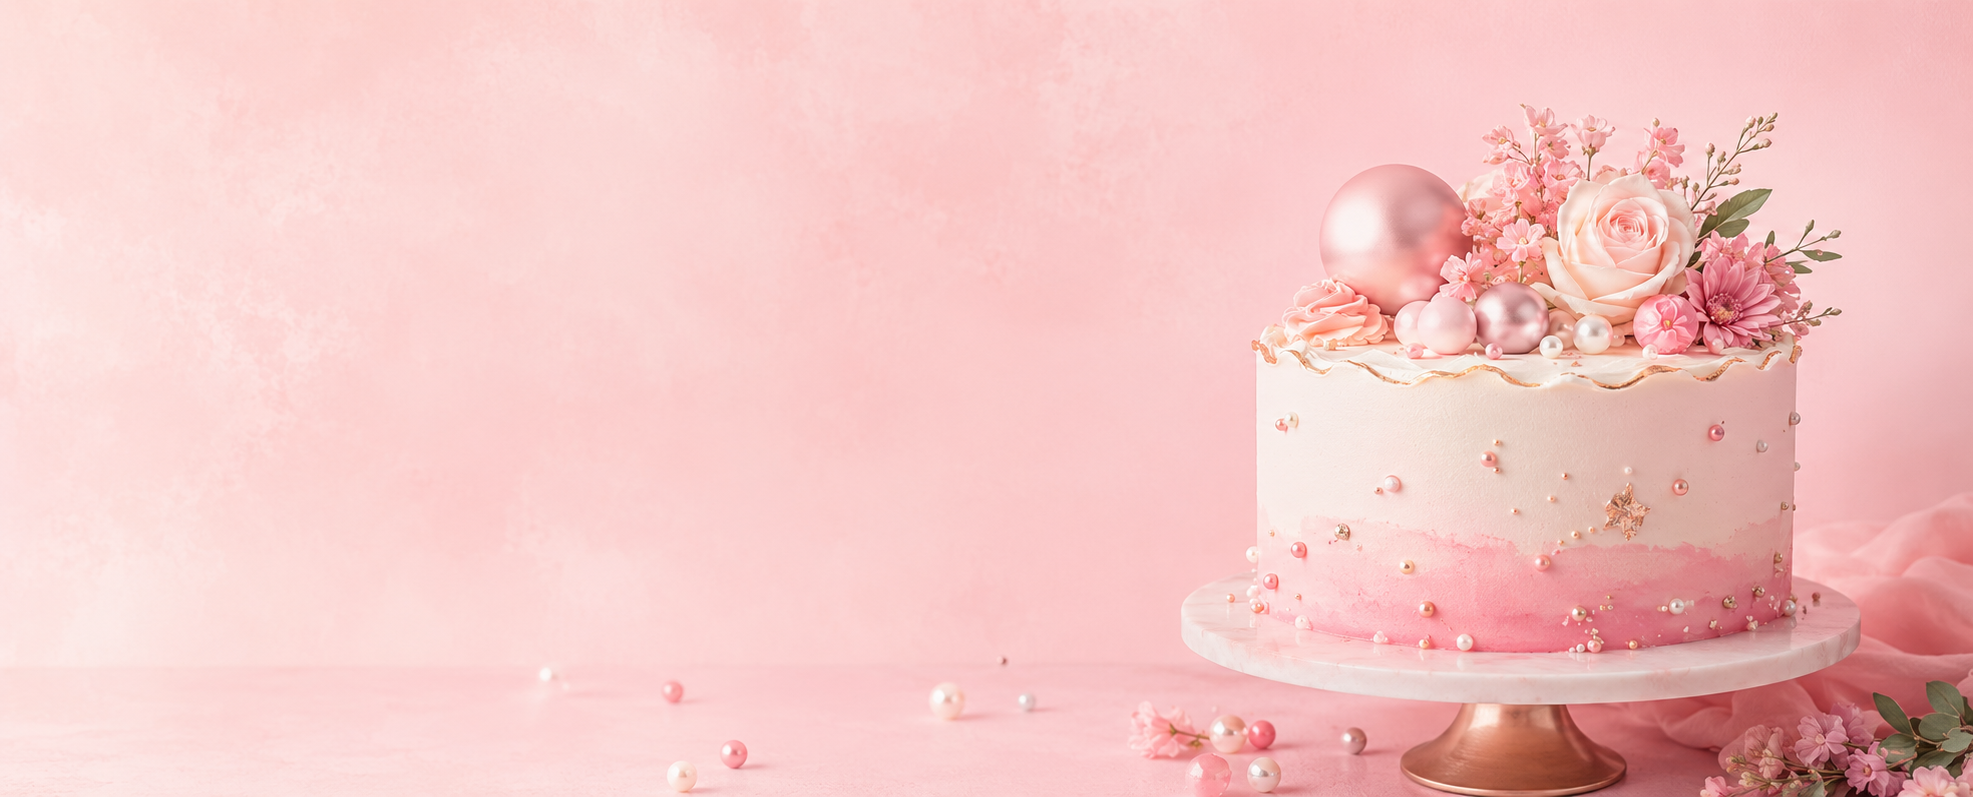
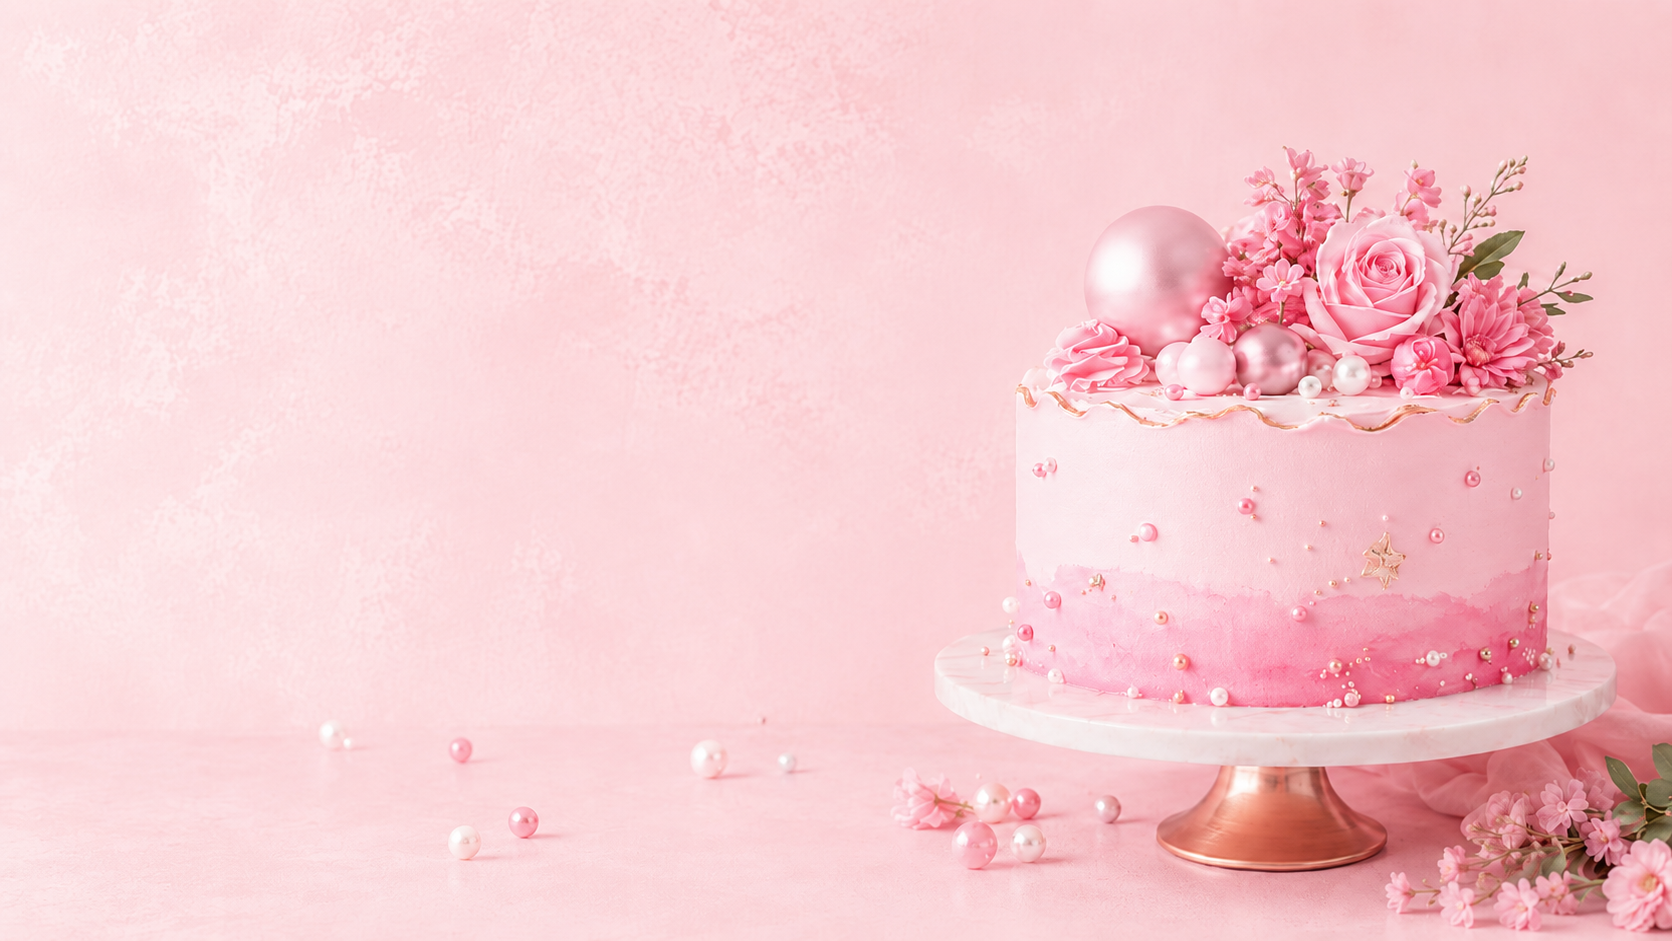
style: refresh process and custom cake sections

diff --git a/frontend/src/components/sections/OrderProcess.tsx b/frontend/src/components/sections/OrderProcess.tsx
@@ -1,82 +1,73 @@
-import Image from "next/image";
-import { SectionAnimatedHeader } from "@/components/animation/SectionAnimatedHeader";
 import { Reveal } from "@/components/animation/Reveal";
+import { SafeImage } from "@/components/ui/SafeImage";
 import { capStaggerDelay } from "@/lib/animation/constants";
-import { orderProcessCopy, orderProcessSteps } from "@/lib/orderProcess";
+import { cn } from "@/lib/cn";
+import { siteImages } from "@/lib/images";
+import { whyChooseBenefits, whyChooseCopy } from "@/lib/orderProcess";
 
 export function OrderProcess() {
   return (
     <section
       id="order"
-      className="section-anchor section-padding bg-[#FFF8FA]"
+      className="section-anchor relative min-h-[28rem] overflow-hidden bg-[#FBE4E8] sm:min-h-[32rem] lg:min-h-[36rem] xl:min-h-[40rem]"
       aria-labelledby="order-heading"
     >
-      <div className="section-container">
-        <SectionAnimatedHeader
-          eyebrow={orderProcessCopy.subtitle}
-          title={orderProcessCopy.heading}
-          titleAs="h2"
-          titleId="order-heading"
-          align="center"
-          className="max-w-xl"
+      <div className="absolute inset-0" aria-hidden>
+        <SafeImage
+          src={siteImages.process}
+          fallbackSrc={siteImages.process}
+          alt=""
+          fill
+          sizes="100vw"
+          className="object-cover object-[78%_center] opacity-100 sm:object-[72%_center] lg:object-right"
         />
+      </div>
 
-        <div className="relative mt-8 sm:mt-10">
-          <span
-            className="absolute left-[12.5%] right-[12.5%] top-8 hidden h-px bg-brand-primary/30 lg:block"
-            aria-hidden
-          />
+      <div
+        className={cn(
+          "section-container relative z-10 flex min-h-[28rem] items-center",
+          "py-10 sm:min-h-[32rem] sm:py-12",
+          "lg:min-h-[36rem] lg:py-14 xl:min-h-[40rem] xl:py-16",
+        )}
+      >
+        <div className="relative min-w-0 max-w-[17rem] sm:max-w-sm md:max-w-md lg:max-w-[28rem] xl:max-w-[30rem]">
+          <Reveal direction="left" delay={0}>
+            <h2
+              id="order-heading"
+              className="font-display text-2xl font-bold leading-tight tracking-tight text-brand-brown sm:text-3xl lg:text-[2.125rem]"
+            >
+              {whyChooseCopy.heading}
+            </h2>
+          </Reveal>
 
-          <ol className="-mx-4 flex gap-4 overflow-x-auto px-4 pb-2 snap-x snap-mandatory scroll-smooth [-ms-overflow-style:none] [scrollbar-width:none] sm:-mx-6 sm:px-6 lg:mx-0 lg:grid lg:grid-cols-4 lg:gap-5 lg:overflow-visible lg:px-0 lg:pb-0 [&::-webkit-scrollbar]:hidden">
-            {orderProcessSteps.map((step, index) => (
+          <ul className="mt-6 space-y-4 sm:mt-7 sm:space-y-5 lg:mt-8">
+            {whyChooseBenefits.map((benefit, index) => (
               <Reveal
-                key={step.id}
+                key={benefit.title}
                 as="li"
-                delay={capStaggerDelay(index, 0.1)}
+                delay={capStaggerDelay(index, 0.08, 0.45)}
                 direction="up"
-                variant="card"
-                className="flex w-[68%] min-w-[9.5rem] max-w-[11.5rem] shrink-0 snap-center flex-col items-center text-center sm:w-[42%] sm:max-w-[12rem] lg:w-auto lg:max-w-none"
+                className="flex min-w-0 gap-3"
               >
-                <OrderStep step={step} />
+                <span
+                  className="mt-0.5 flex h-7 w-7 shrink-0 items-center justify-center rounded-full bg-brand-primary text-[0.6875rem] font-bold text-white sm:h-8 sm:w-8 sm:text-xs"
+                  aria-hidden
+                >
+                  {index + 1}
+                </span>
+                <div className="min-w-0 pt-0.5">
+                  <h3 className="font-display text-sm font-bold leading-snug text-brand-brown sm:text-base">
+                    {benefit.title}
+                  </h3>
+                  <p className="mt-0.5 text-xs font-medium leading-snug text-brand-brown/80 sm:text-sm sm:leading-relaxed">
+                    {benefit.description}
+                  </p>
+                </div>
               </Reveal>
             ))}
-          </ol>
+          </ul>
         </div>
       </div>
     </section>
-  );
-}
-
-type OrderStepProps = {
-  step: (typeof orderProcessSteps)[number];
-};
-
-function OrderStep({ step }: OrderStepProps) {
-  return (
-    <>
-      <span className="relative z-10 flex h-14 w-14 items-center justify-center rounded-full border-2 border-brand-pink-light bg-white p-2.5 shadow-lg shadow-brand-primary/10 transition-transform duration-300 hover:-translate-y-0.5 sm:h-16 sm:w-16 sm:p-3">
-        <Image
-          src={step.icon}
-          alt=""
-          width={40}
-          height={40}
-          className="h-8 w-8 object-contain sm:h-10 sm:w-10"
-          aria-hidden
-        />
-      </span>
-
-      <div className="mt-2.5 flex items-center justify-center gap-2">
-        <span className="flex h-5 w-5 shrink-0 items-center justify-center rounded-full bg-brand-primary text-[0.625rem] font-bold leading-none text-white">
-          {step.step}
-        </span>
-        <h3 className="font-display text-xs font-semibold leading-snug text-brand-brown sm:text-sm">
-          {step.title}
-        </h3>
-      </div>
-
-      <p className="mt-1 hidden max-w-[10.5rem] text-[0.6875rem] leading-snug text-brand-muted sm:block">
-        {step.description}
-      </p>
-    </>
   );
 }

diff --git a/frontend/src/components/animation/CustomCakeBuilderAnimated.tsx b/frontend/src/components/animation/CustomCakeBuilderAnimated.tsx
@@ -1,62 +1,22 @@
 "use client";
 
 import { Button } from "@/components/ui/Button";
-import { AnimatedCustomCakeSteps } from "@/components/animation/AnimatedCustomCakeSteps";
 import { Reveal } from "@/components/animation/Reveal";
 import { WordReveal } from "@/components/animation/WordReveal";
 import { SectionEyebrow } from "@/components/ui/SectionEyebrow";
 import { customCakeCopy } from "@/lib/customCake";
 import { cn } from "@/lib/cn";
 
-function HeartIcon({ className }: { className?: string }) {
-  return (
-    <svg className={className} viewBox="0 0 16 16" fill="currentColor" aria-hidden>
-      <path d="M8 14s-5.5-3.6-5.5-7.2C2.5 4.6 4.2 3 6.1 3c1.1 0 2.1.5 2.9 1.3C9.8 3.5 10.8 3 11.9 3 13.8 3 15.5 4.6 15.5 6.8 15.5 10.4 8 14 8 14z" />
-    </svg>
-  );
-}
-
-function CustomCakeHeading({ id }: { id?: string }) {
-  return (
-    <>
-      <Reveal direction="left" delay={0}>
-        <SectionEyebrow align="start">{customCakeCopy.subtitle}</SectionEyebrow>
-      </Reveal>
-      <h2
-        id={id}
-        className="mt-2 font-display text-2xl font-bold leading-tight tracking-tight text-brand-brown sm:text-3xl lg:text-[2.125rem]"
-      >
-        <WordReveal
-          text={customCakeCopy.headingLine1}
-          as="span"
-          delay={0.1}
-          className="block w-full"
-        />
-        <span className="mt-0.5 flex items-center gap-1.5 text-brand-primary">
-          <WordReveal
-            text={customCakeCopy.headingLine2}
-            as="span"
-            delay={0.22}
-            className="inline-flex"
-            wordClassName="text-brand-primary"
-          />
-          <HeartIcon className="h-4 w-4 shrink-0 sm:h-[1.125rem] sm:w-[1.125rem]" />
-        </span>
-      </h2>
-    </>
-  );
-}
-
 export function CustomCakeBuilderAnimated() {
   return (
     <div
       className={cn(
         "section-container relative z-10 flex min-h-[28rem] items-center",
-        "py-10 sm:min-h-[34rem] sm:py-12",
+        "py-12 sm:min-h-[34rem] sm:py-14",
         "lg:min-h-[40rem] lg:py-16 xl:min-h-[44rem] xl:py-20",
       )}
     >
-      {/* Text directly over the image — left side; no panel, wash, or text-shadow */}
+      {/* Text directly over the image — left side; no steps, panel, or overlay wash */}
       <div
         className={cn(
           "relative min-w-0 max-w-[17.5rem]",
@@ -64,28 +24,33 @@ export function CustomCakeBuilderAnimated() {
           "lg:max-w-lg",
         )}
       >
-        <CustomCakeHeading id="custom-cakes-heading" />
+        <Reveal direction="left" delay={0}>
+          <SectionEyebrow align="start">{customCakeCopy.subtitle}</SectionEyebrow>
+        </Reveal>
+
+        <h2
+          id="custom-cakes-heading"
+          className="mt-3 font-display text-2xl font-bold leading-tight tracking-tight text-brand-brown sm:mt-3.5 sm:text-3xl lg:mt-4 lg:text-[2.125rem]"
+        >
+          <WordReveal
+            text={customCakeCopy.heading}
+            as="span"
+            delay={0.1}
+            className="block w-full"
+          />
+        </h2>
 
         <Reveal direction="up" delay={0.3}>
-          <p className="mt-3 max-w-md text-sm font-medium leading-relaxed text-brand-brown sm:mt-3.5 sm:text-[0.9375rem] lg:text-base">
+          <p className="mt-4 max-w-md text-sm font-medium leading-relaxed text-brand-brown sm:mt-5 sm:text-[0.9375rem] lg:mt-6 lg:text-base">
             {customCakeCopy.description}
           </p>
         </Reveal>
 
-        <Reveal direction="up" delay={0.4} className="mt-4 sm:mt-5 lg:mt-6">
-          <div className="sm:hidden">
-            <AnimatedCustomCakeSteps compact />
-          </div>
-          <div className="hidden sm:block">
-            <AnimatedCustomCakeSteps />
-          </div>
-        </Reveal>
-
-        <Reveal direction="up" delay={0.55}>
+        <Reveal direction="up" delay={0.45}>
           <Button
             href={customCakeCopy.ctaHref}
             size="sm"
-            className="mt-5 h-9 w-fit text-sm sm:mt-6 sm:h-10 sm:px-5 lg:mt-7"
+            className="mt-7 h-9 w-fit text-sm sm:mt-8 sm:h-10 sm:px-5 lg:mt-10"
           >
             {customCakeCopy.ctaLabel}
           </Button>

diff --git a/frontend/src/lib/customCake.ts b/frontend/src/lib/customCake.ts
@@ -1,3 +1,13 @@
+export const customCakeCopy = {
+  subtitle: "CREATE YOUR SIGNATURE CAKE",
+  heading: "A Custom Cake Made for Your Moment",
+  description:
+    "Choose your favourite flavour, style, colours, and finishing touches to create a cake that feels completely yours.",
+  ctaLabel: "Start Customizing",
+  ctaHref: "/custom-cake",
+} as const;
+
+/** Legacy step list — retained for any remaining imports; not rendered on homepage Customize Cake */
 export const customCakeSteps = [
   {
     step: 1,
@@ -20,13 +30,3 @@ export const customCakeSteps = [
     description: "Messages, toppers, and custom details.",
   },
 ] as const;
-
-export const customCakeCopy = {
-  subtitle: "Design Your Dream Cake",
-  headingLine1: "Make Your Own",
-  headingLine2: "Custom Cake",
-  description:
-    "Bring your celebration to life with a cake made just for you. Pick every flavour, filling, and finishing detail.",
-  ctaLabel: "Start Customizing",
-  ctaHref: "/custom-cake",
-} as const;

diff --git a/frontend/src/lib/orderProcess.ts b/frontend/src/lib/orderProcess.ts
@@ -3,6 +3,32 @@ export const orderProcessCopy = {
   heading: "Simple Steps To Get Your Perfect Cake",
 } as const;
 
+/** Homepage trust section — replaces the old step-timeline presentation */
+export const whyChooseCopy = {
+  heading: "Why Choose DoughArt?",
+} as const;
+
+export const whyChooseBenefits = [
+  {
+    title: "Premium Quality Ingredients",
+    description:
+      "Carefully selected ingredients for rich flavour and consistent quality.",
+  },
+  {
+    title: "Hygienically Prepared",
+    description: "Prepared with care in a clean and controlled environment.",
+  },
+  {
+    title: "Freshly Made to Order",
+    description: "Every cake is prepared fresh for your celebration.",
+  },
+  {
+    title: "Crafted with Love and Care",
+    description: "Thoughtfully finished to make every moment feel special.",
+  },
+] as const;
+
+/** Used on About page order-process timeline */
 export const orderProcessSteps = [
   {
     id: "design",

diff --git a/frontend/src/components/layout/Header.tsx b/frontend/src/components/layout/Header.tsx
@@ -90,11 +90,7 @@ export function Header() {
               height={89}
               unoptimized
               priority
-              className={cn(
-                "h-auto w-[7.25rem] object-contain object-left",
-                "sm:w-[8.75rem]",
-                "lg:w-[11.5rem] xl:w-[12.5rem]",
-              )}
+              className="h-auto w-[6.25rem] object-contain object-left"
             />
           </Link>
 

diff --git a/frontend/src/lib/images.ts b/frontend/src/lib/images.ts
@@ -8,6 +8,7 @@ export const siteImages = {
   customCake: "/images/real/custom-cake.png",
   customCakeMobile: "/images/real/custom-cake.png",
   customCakeFallback: "/images/real/custom-cake.jpg",
+  process: "/images/real/process.png",
   categories: {
     birthday: "/images/real/birthday-cake.jpg",
     wedding: "/images/real/wedding-cake.png",
